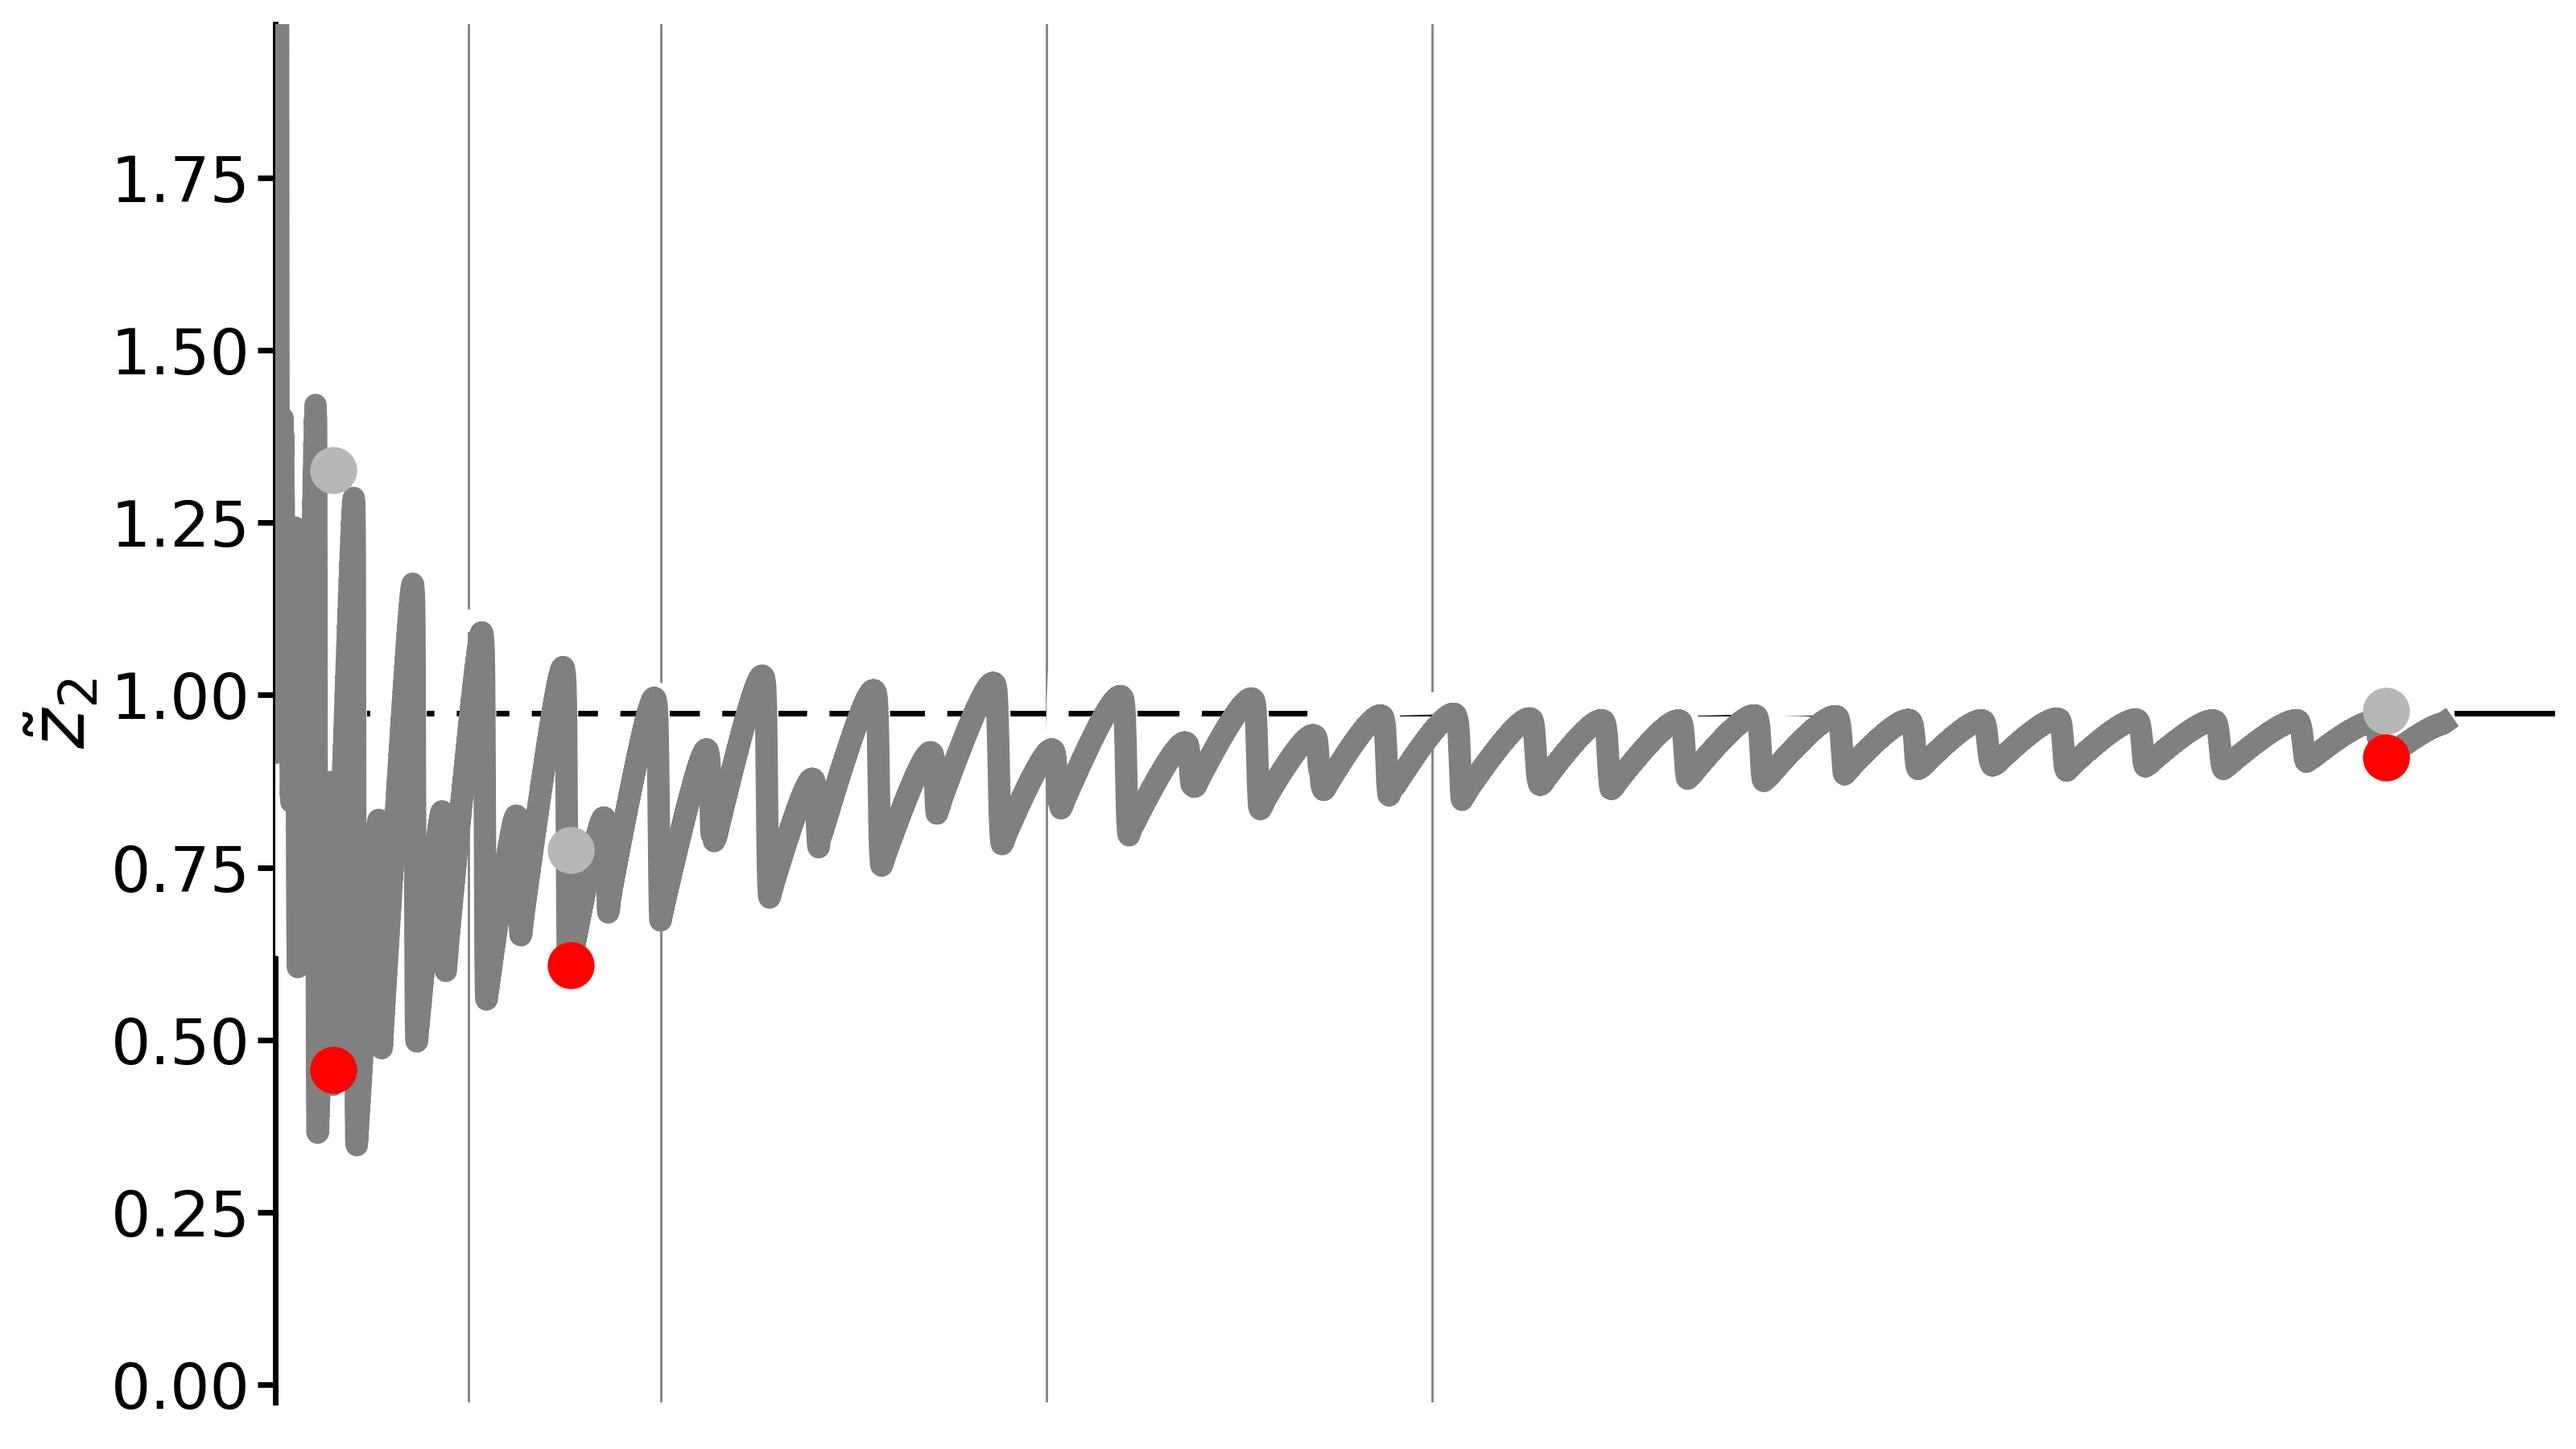
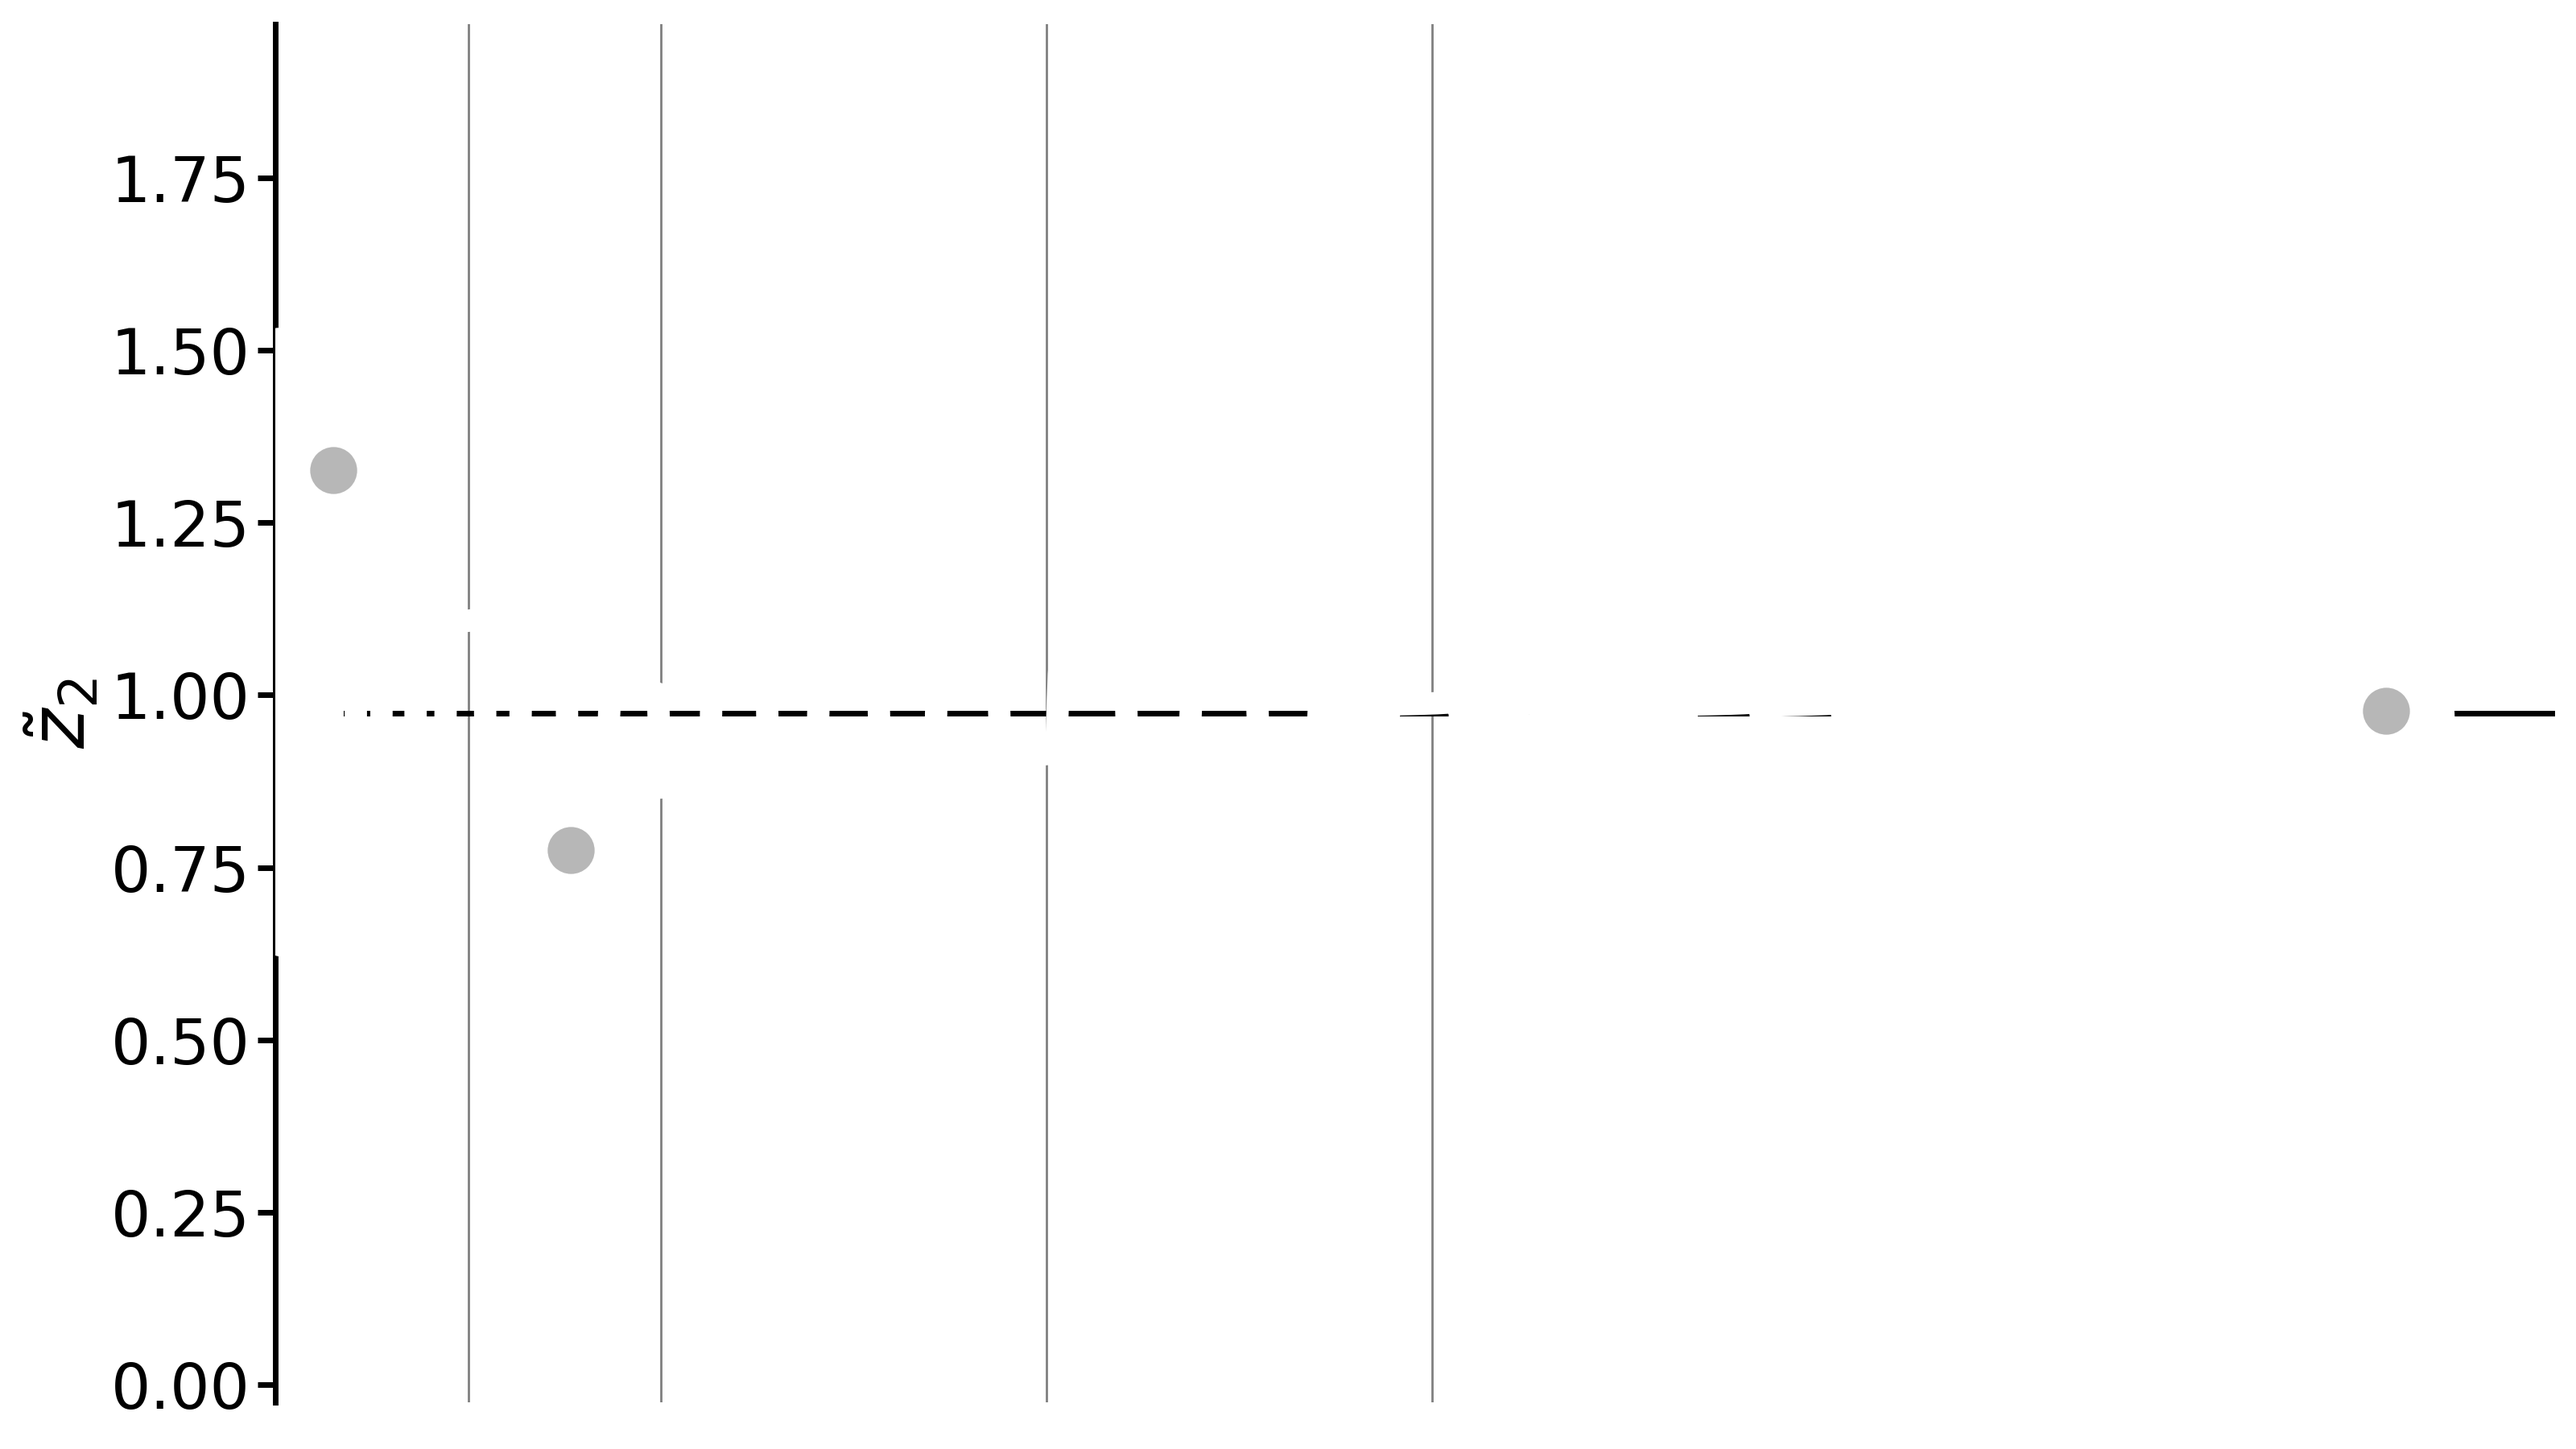
removing debug trace

Changed region(s): [[0.0938, 0.0311, 0.9688, 0.8089]]

diff --git a/FigureCode/Fig4_wmu/B_catastrophe_trajectory_growth_plot.py b/FigureCode/Fig4_wmu/B_catastrophe_trajectory_growth_plot.py
@@ -31,8 +31,8 @@ ts = np.arange(tmax)
 ax.plot(ts, z_h[:, 1], color="white", lw=10, zorder=9)
 ax.scatter(ts[gamma_points_h], z_h[gamma_points_h, 1], c=[(183/255.0, 183/255.0, 183/255.0)], s=400, zorder=10)
 
-ax.plot(ts, z_h[:, 0], color="grey", lw=10, zorder=9)
-ax.scatter(ts[gamma_points_h], z_h[gamma_points_h, 0], c="red", s=400, zorder=10)
+#ax.plot(ts, z_h[:, 0], color="grey", lw=10, zorder=9)
+#ax.scatter(ts[gamma_points_h], z_h[gamma_points_h, 0], c="red", s=400, zorder=10)
 
 gamma_vlines = np.unique(np.r_[np.arange(0, tmax-1, 1000, dtype=int)[[0, 1, 2, 4, 6]], tmax-1])
 print(gamma_vlines)
